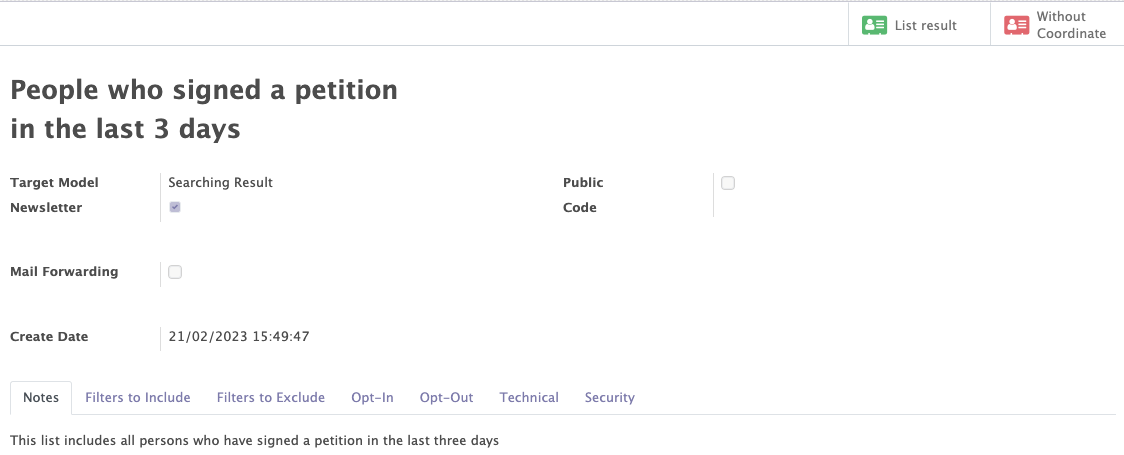
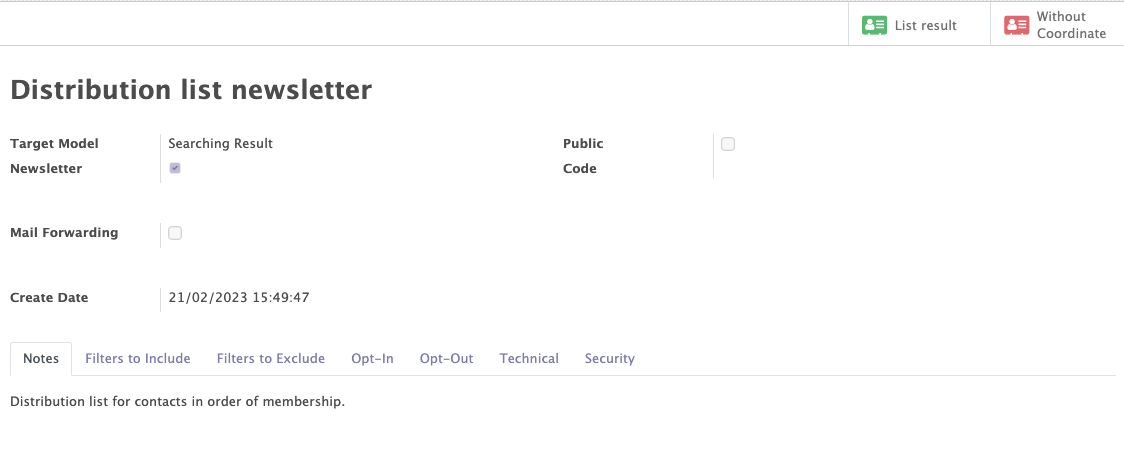
include and exlcude filtesr text modif

diff --git a/docs/Distribution-list-module.md b/docs/Distribution-list-module.md
@@ -13,9 +13,9 @@ It will provide access to :
 
 This functionality allows you to create, modify and manage all the events related to your organisation.
 
-Various informations can/must be completed on the petition form :
+The distribution list provides access to general information:
 
-- General information of the distribution list (name, note...).
+- TheGeneral information of the distribution list (name, note...).
 - The list of contacts included in the distribution list.
 
 !!! abstract "The goald of the distibution list" 
@@ -31,11 +31,9 @@ Various informations can/must be completed on the petition form :
 ## Include and exclude filters
 
     
-A distribution list allows you to add filters that allow you to find a list of contacts that meet these filters and that will be included or exclude of the distribution list. Filters can be created and saved as a template to be used for other distribution lists. Once the different filters are added, it is possible to see the list of all the contacts found by applying the different filters. 
+A distribution list allows you to add filters that allow you to find a list of contacts that meet these filters and that will be included or exclude of the distribution list. Filters can be created and saved as a template to be used for other distribution lists.
 
 As with the include filters, the exclude filters work in the same way. Simply create one or more new filters that can be saved as a template to be reused later. Once the filters are selected, you can display a list of all the contacts that will NOT be part of the distribution list.
-
-:warning: To be included in these lists, it is mandatory that the contact has at least one email or postal address defined. Otherwise, the contact will appear in the "Without coordinate" tab accessible from the mailing list form.
 
 !!!info
 
@@ -48,7 +46,9 @@ As with the include filters, the exclude filters work in the same way. Simply cr
 
 ??? tip
 
-    By clicking on the "list result" button at the top right of the form, you can access the list of contacts that are part of the distribution list once the filters are active.
+    By clicking on the "result" button next to the filter you created, you can access the list of contacts that are part of the filters.
+
+    :warning: To be included in these lists, it is mandatory that the contact has at least one email or postal address defined. Otherwise, the contact will appear in the "Without coordinate" tab accessible from the mailing list form.
 
 <figure markdown>
 ![screenshot 18](img/screen18.png)
